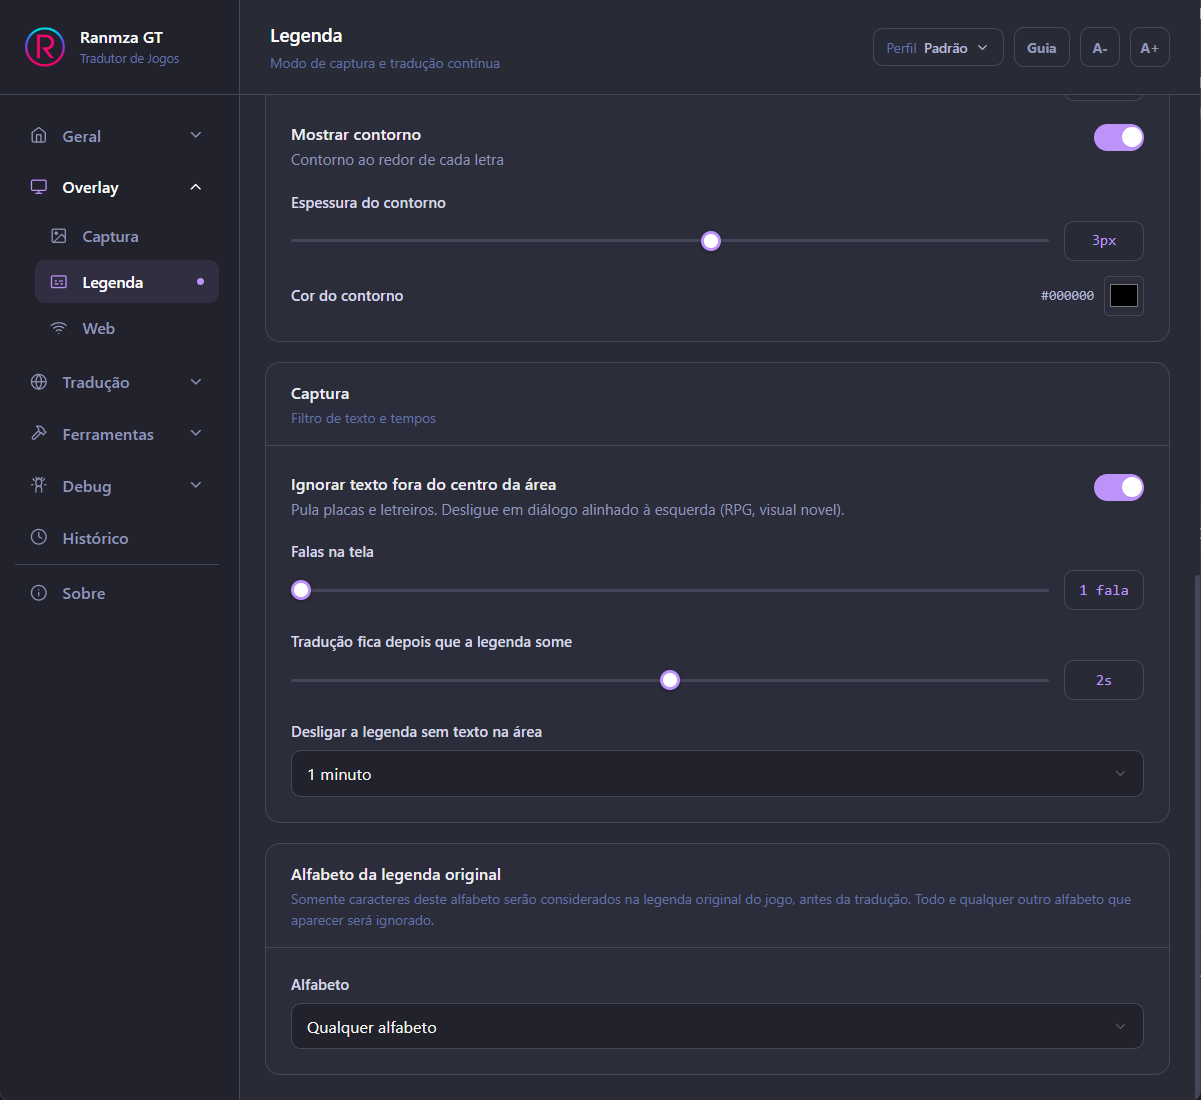
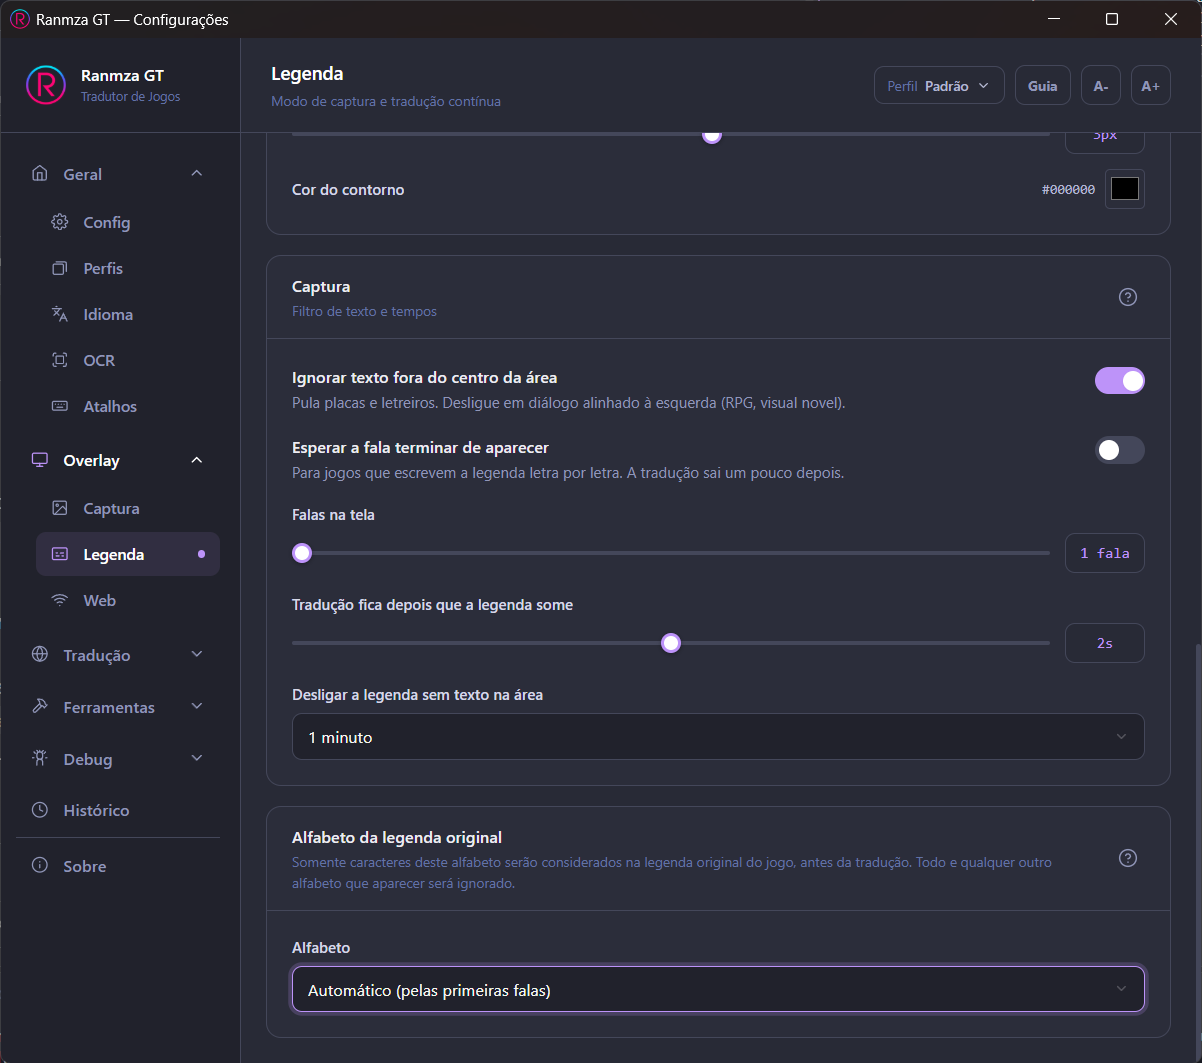
docs(manual): alfabeto Automático e espera da fala letra por letra
- Overlay › Legenda: seção Esperar a fala terminar de aparecer, para jogos com efeito typewriter
- alfabeto da legenda: Automático (pelas primeiras falas) é o padrão do OneOCR
- print novo do card Captura em português; o em inglês continua o antigo

diff --git a/_src/manual_en.md b/_src/manual_en.md
@@ -416,10 +416,12 @@ Since it uses an unofficial Microsoft API, a Snipping Tool update can break the 
 
 In Subtitle Mode, the program can consider only the letters of one alphabet and ignore the rest: Latin, Japanese/Chinese, Korean or Cyrillic. Useful when names, signs or symbols in another alphabet show up near the subtitle. It is in **Overlay › Subtitles**, in the **Original subtitle alphabet** card:
 
-- With **OneOCR**, you choose the alphabet in the list (default: *Any alphabet*).
+- With **OneOCR**, the default is *Automatic (from the first lines)*: the program finds out the subtitle's alphabet from the first translated lines and then ignores the others. If you prefer, choose the alphabet in the list.
 - With **WinOCR**, the filter follows the language chosen in **General › Language** by itself.
 
-Example: in the scene below, the English subtitle sits on top of a Japanese news headline. With *Any alphabet*, the program reads both together and sends the Japanese to the translation in the middle of the line. With *Latin*, it ignores the Japanese characters and translates only the subtitle.
+Example: in the scene below, the English subtitle sits on top of a Japanese news headline. Without the filter, the program reads both together and sends the Japanese to the translation in the middle of the line. With *Latin*, or with *Automatic* after the first lines in English, it ignores the Japanese characters and translates only the subtitle.
+
+With *Automatic*, if you switch to a game with subtitles in another alphabet, turn the subtitles off and on (`Numpad0`) so the program learns again. If you forget, it notices by itself after a few ignored lines.
 
 <p align="center"><img src="media/legenda-alfabeto-exemplo.png" alt="English subtitle on top of a Japanese headline" width="820"></p>
 
@@ -540,6 +542,16 @@ The **Ignore text away from the center of the area** option, in the **Capture** 
 
 - The tighter the area is around the subtitle, the better it works. Mark only the strip where the subtitle appears.
 - In games with left-aligned dialogue, like some RPGs and visual novels, keep this option off.
+
+### Wait for the line to finish appearing
+
+Some games type the subtitle letter by letter, like a typewriter. Without help, the program translates pieces of the line while it is still being typed, and sometimes the end is left out.
+
+Turn on **Wait for the line to finish appearing**, in the **Capture** card, in those games. The program waits for the line to stop growing and translates the whole line once.
+
+- The translation shows up a little later, on every line: about 0.2 s more. If the line does not end in a period, exclamation or question mark, the wait is almost 1 s, because it may continue.
+- It comes off. Keep it off in games where the subtitle appears all at once.
+- The option is saved in the profile, so you can turn it on only in the profile of the game that needs it.
 
 ### Stick to the detected text
 
@@ -830,10 +842,11 @@ Subtitle Mode has its **own** appearance, independent from Overlay › Capture.
 
 - **Capture**
   - *Ignore text away from the center of the area* — on by default. Skips signs near the edges of the area; turn it off for left-aligned dialogue.
+  - *Wait for the line to finish appearing* — off by default. For games that type the subtitle letter by letter; the translation shows up about 0.2 s later on every line.
   - *Lines on screen* — how many lines stay visible (1 to 8). It stays at 1 with *Stick to the detected text* on.
   - *Translation stays after the subtitle goes away* — 1 to 3 s (default 2 s).
   - *Turn off subtitles with no text in the area* — **turns the mode off** after that long with no text: Never / 1 / 2 / 5 / 10 minutes (default 1 minute).
-- **Original subtitle alphabet** — only characters of that alphabet are considered in the subtitle; the rest is ignored. With OneOCR, choose *Any alphabet*, Latin, Japanese/Chinese, Korean or Cyrillic. With WinOCR, it follows the language in General › Language, with the **Change language** button.
+- **Original subtitle alphabet** — only characters of that alphabet are considered in the subtitle; the rest is ignored. With OneOCR, choose *Automatic (from the first lines)* (default), Latin, Japanese/Chinese, Korean or Cyrillic. With WinOCR, it follows the language in General › Language, with the **Change language** button.
 
 ### Overlay › Web
 

diff --git a/_src/manual.md b/_src/manual.md
@@ -599,12 +599,19 @@ latino, japonês/chinês, coreano ou cirílico. Útil quando aparecem nomes, pla
 outro alfabeto perto da legenda. Fica em **Overlay › Legenda**, no card **Alfabeto da legenda
 original**:
 
-- Com o **OneOCR**, você escolhe o alfabeto na lista (padrão: *Qualquer alfabeto*).
+- Com o **OneOCR**, o padrão é *Automático (pelas primeiras falas)*: o programa descobre o
+  alfabeto da legenda pelas primeiras falas traduzidas e passa a ignorar os outros. Se preferir,
+  escolha o alfabeto na lista.
 - Com o **WinOCR**, o filtro segue sozinho o idioma escolhido em **Geral › Idioma**.
 
 Exemplo: na cena abaixo, a legenda em inglês fica por cima de uma manchete de jornal em japonês.
-Com *Qualquer alfabeto*, o programa lê as duas juntas e manda o japonês para a tradução no meio da
-fala. Com *Latino*, ele ignora os caracteres japoneses e traduz só a legenda.
+Sem o filtro, o programa lê as duas juntas e manda o japonês para a tradução no meio da fala. Com
+*Latino*, ou com *Automático* depois das primeiras falas em inglês, ele ignora os caracteres
+japoneses e traduz só a legenda.
+
+No *Automático*, se você trocar de jogo para um com legenda em outro alfabeto, desligue e ligue a
+legenda (`Numpad0`) para o programa aprender de novo. Se esquecer, ele percebe sozinho depois de
+algumas falas ignoradas.
 
 <p align="center"><img src="media/legenda-alfabeto-exemplo.png" alt="Legenda em inglês por cima de uma manchete em japonês" width="820"></p>
 
@@ -781,6 +788,20 @@ aparecem ao lado da legenda.
   a legenda aparece.
 - Em jogos com diálogo alinhado à esquerda, como alguns RPGs e visual novels, deixe essa opção
   desligada.
+
+### Esperar a fala terminar de aparecer
+
+Alguns jogos escrevem a legenda letra por letra, como uma máquina de escrever. Sem ajuda, o
+programa traduz pedaços da fala enquanto ela ainda está sendo escrita, e às vezes o final fica de
+fora.
+
+Ligue **Esperar a fala terminar de aparecer**, no card **Captura**, nesses jogos. O programa espera
+a fala parar de crescer e traduz a fala inteira uma vez só.
+
+- A tradução sai um pouco depois, em toda fala: cerca de 0,2 s a mais. Se a fala não termina em
+  ponto, exclamação ou interrogação, a espera é de quase 1 s, porque ela pode continuar.
+- Vem desligada. Deixe desligada nos jogos em que a legenda aparece inteira de uma vez.
+- A opção fica salva no perfil, então dá para ligar só no perfil do jogo que precisa.
 
 ### Colar no texto detectado
 
@@ -1254,14 +1275,16 @@ O Modo Legenda tem aparência **própria**, independente de Overlay › Captura.
 - **Captura**
   - *Ignorar texto fora do centro da área* — ligada por padrão. Pula placas e letreiros perto das
     bordas da área; desligue em diálogo alinhado à esquerda.
+  - *Esperar a fala terminar de aparecer* — desligada por padrão. Para jogos que escrevem a
+    legenda letra por letra; a tradução sai cerca de 0,2 s depois em toda fala.
   - *Falas na tela* — quantas falas ficam visíveis (1 a 8). Fica em 1 com *Colar no texto
     detectado* ligado.
   - *Tradução fica depois que a legenda some* — 1 a 3 s (padrão 2 s).
   - *Desligar a legenda sem texto na área* — **desliga o modo** depois desse tempo sem texto:
     Nunca / 1 / 2 / 5 / 10 minutos (padrão 1 minuto).
 - **Alfabeto da legenda original** — só caracteres desse alfabeto são considerados na legenda;
-  o resto é ignorado. Com o OneOCR, escolha *Qualquer alfabeto*, latino, japonês/chinês, coreano
-  ou cirílico. Com o WinOCR, segue o idioma de Geral › Idioma, com o botão **Mudar idioma**.
+  o resto é ignorado. Com o OneOCR, escolha *Automático (pelas primeiras falas)* (padrão), latino,
+  japonês/chinês, coreano ou cirílico. Com o WinOCR, segue o idioma de Geral › Idioma, com o botão **Mudar idioma**.
 
 ### Overlay › Web
 

diff --git a/en/Manual/configuring-translation.md b/en/Manual/configuring-translation.md
@@ -53,10 +53,12 @@ Since it uses an unofficial Microsoft API, a Snipping Tool update can break the 
 
 In Subtitle Mode, the program can consider only the letters of one alphabet and ignore the rest: Latin, Japanese/Chinese, Korean or Cyrillic. Useful when names, signs or symbols in another alphabet show up near the subtitle. It is in **Overlay › Subtitles**, in the **Original subtitle alphabet** card:
 
-- With **OneOCR**, you choose the alphabet in the list (default: *Any alphabet*).
+- With **OneOCR**, the default is *Automatic (from the first lines)*: the program finds out the subtitle's alphabet from the first translated lines and then ignores the others. If you prefer, choose the alphabet in the list.
 - With **WinOCR**, the filter follows the language chosen in **General › Language** by itself.
 
-Example: in the scene below, the English subtitle sits on top of a Japanese news headline. With *Any alphabet*, the program reads both together and sends the Japanese to the translation in the middle of the line. With *Latin*, it ignores the Japanese characters and translates only the subtitle.
+Example: in the scene below, the English subtitle sits on top of a Japanese news headline. Without the filter, the program reads both together and sends the Japanese to the translation in the middle of the line. With *Latin*, or with *Automatic* after the first lines in English, it ignores the Japanese characters and translates only the subtitle.
+
+With *Automatic*, if you switch to a game with subtitles in another alphabet, turn the subtitles off and on (`Numpad0`) so the program learns again. If you forget, it notices by itself after a few ignored lines.
 
 <p align="center"><img src="media/legenda-alfabeto-exemplo.png" alt="English subtitle on top of a Japanese headline" width="820"></p>
 

diff --git a/Manual/configurando-a-traducao.md b/Manual/configurando-a-traducao.md
@@ -84,12 +84,19 @@ latino, japonês/chinês, coreano ou cirílico. Útil quando aparecem nomes, pla
 outro alfabeto perto da legenda. Fica em **Overlay › Legenda**, no card **Alfabeto da legenda
 original**:
 
-- Com o **OneOCR**, você escolhe o alfabeto na lista (padrão: *Qualquer alfabeto*).
+- Com o **OneOCR**, o padrão é *Automático (pelas primeiras falas)*: o programa descobre o
+  alfabeto da legenda pelas primeiras falas traduzidas e passa a ignorar os outros. Se preferir,
+  escolha o alfabeto na lista.
 - Com o **WinOCR**, o filtro segue sozinho o idioma escolhido em **Geral › Idioma**.
 
 Exemplo: na cena abaixo, a legenda em inglês fica por cima de uma manchete de jornal em japonês.
-Com *Qualquer alfabeto*, o programa lê as duas juntas e manda o japonês para a tradução no meio da
-fala. Com *Latino*, ele ignora os caracteres japoneses e traduz só a legenda.
+Sem o filtro, o programa lê as duas juntas e manda o japonês para a tradução no meio da fala. Com
+*Latino*, ou com *Automático* depois das primeiras falas em inglês, ele ignora os caracteres
+japoneses e traduz só a legenda.
+
+No *Automático*, se você trocar de jogo para um com legenda em outro alfabeto, desligue e ligue a
+legenda (`Numpad0`) para o programa aprender de novo. Se esquecer, ele percebe sozinho depois de
+algumas falas ignoradas.
 
 <p align="center"><img src="media/legenda-alfabeto-exemplo.png" alt="Legenda em inglês por cima de uma manchete em japonês" width="820"></p>
 

diff --git a/en/Manual/subtitle-mode-continuous-automatic-translation.md b/en/Manual/subtitle-mode-continuous-automatic-translation.md
@@ -33,6 +33,16 @@ The **Ignore text away from the center of the area** option, in the **Capture** 
 - The tighter the area is around the subtitle, the better it works. Mark only the strip where the subtitle appears.
 - In games with left-aligned dialogue, like some RPGs and visual novels, keep this option off.
 
+## Wait for the line to finish appearing
+
+Some games type the subtitle letter by letter, like a typewriter. Without help, the program translates pieces of the line while it is still being typed, and sometimes the end is left out.
+
+Turn on **Wait for the line to finish appearing**, in the **Capture** card, in those games. The program waits for the line to stop growing and translates the whole line once.
+
+- The translation shows up a little later, on every line: about 0.2 s more. If the line does not end in a period, exclamation or question mark, the wait is almost 1 s, because it may continue.
+- It comes off. Keep it off in games where the subtitle appears all at once.
+- The option is saved in the profile, so you can turn it on only in the profile of the game that needs it.
+
 ## Stick to the detected text
 
 In **Overlay › Subtitles**, the first card (*Translation position*) has the **Stick to the detected text** option. When on, the translation no longer shows above the area and is drawn **on top of the original line**, with the same line breaks, covering the game subtitle — as if the game were subtitled in your language.

diff --git a/en/Manual/complete-reference-all-tabs.md b/en/Manual/complete-reference-all-tabs.md
@@ -136,10 +136,11 @@ Subtitle Mode has its **own** appearance, independent from Overlay › Capture.
 
 - **Capture**
   - *Ignore text away from the center of the area* — on by default. Skips signs near the edges of the area; turn it off for left-aligned dialogue.
+  - *Wait for the line to finish appearing* — off by default. For games that type the subtitle letter by letter; the translation shows up about 0.2 s later on every line.
   - *Lines on screen* — how many lines stay visible (1 to 8). It stays at 1 with *Stick to the detected text* on.
   - *Translation stays after the subtitle goes away* — 1 to 3 s (default 2 s).
   - *Turn off subtitles with no text in the area* — **turns the mode off** after that long with no text: Never / 1 / 2 / 5 / 10 minutes (default 1 minute).
-- **Original subtitle alphabet** — only characters of that alphabet are considered in the subtitle; the rest is ignored. With OneOCR, choose *Any alphabet*, Latin, Japanese/Chinese, Korean or Cyrillic. With WinOCR, it follows the language in General › Language, with the **Change language** button.
+- **Original subtitle alphabet** — only characters of that alphabet are considered in the subtitle; the rest is ignored. With OneOCR, choose *Automatic (from the first lines)* (default), Latin, Japanese/Chinese, Korean or Cyrillic. With WinOCR, it follows the language in General › Language, with the **Change language** button.
 
 ## Overlay › Web
 

diff --git a/Manual/referencia-completa-todas-as-abas.md b/Manual/referencia-completa-todas-as-abas.md
@@ -205,14 +205,16 @@ O Modo Legenda tem aparência **própria**, independente de Overlay › Captura.
 - **Captura**
   - *Ignorar texto fora do centro da área* — ligada por padrão. Pula placas e letreiros perto das
     bordas da área; desligue em diálogo alinhado à esquerda.
+  - *Esperar a fala terminar de aparecer* — desligada por padrão. Para jogos que escrevem a
+    legenda letra por letra; a tradução sai cerca de 0,2 s depois em toda fala.
   - *Falas na tela* — quantas falas ficam visíveis (1 a 8). Fica em 1 com *Colar no texto
     detectado* ligado.
   - *Tradução fica depois que a legenda some* — 1 a 3 s (padrão 2 s).
   - *Desligar a legenda sem texto na área* — **desliga o modo** depois desse tempo sem texto:
     Nunca / 1 / 2 / 5 / 10 minutos (padrão 1 minuto).
 - **Alfabeto da legenda original** — só caracteres desse alfabeto são considerados na legenda;
-  o resto é ignorado. Com o OneOCR, escolha *Qualquer alfabeto*, latino, japonês/chinês, coreano
-  ou cirílico. Com o WinOCR, segue o idioma de Geral › Idioma, com o botão **Mudar idioma**.
+  o resto é ignorado. Com o OneOCR, escolha *Automático (pelas primeiras falas)* (padrão), latino,
+  japonês/chinês, coreano ou cirílico. Com o WinOCR, segue o idioma de Geral › Idioma, com o botão **Mudar idioma**.
 
 ## Overlay › Web
 

diff --git a/Manual/modo-legenda-traducao-automatica-continua.md b/Manual/modo-legenda-traducao-automatica-continua.md
@@ -46,6 +46,20 @@ aparecem ao lado da legenda.
 - Em jogos com diálogo alinhado à esquerda, como alguns RPGs e visual novels, deixe essa opção
   desligada.
 
+## Esperar a fala terminar de aparecer
+
+Alguns jogos escrevem a legenda letra por letra, como uma máquina de escrever. Sem ajuda, o
+programa traduz pedaços da fala enquanto ela ainda está sendo escrita, e às vezes o final fica de
+fora.
+
+Ligue **Esperar a fala terminar de aparecer**, no card **Captura**, nesses jogos. O programa espera
+a fala parar de crescer e traduz a fala inteira uma vez só.
+
+- A tradução sai um pouco depois, em toda fala: cerca de 0,2 s a mais. Se a fala não termina em
+  ponto, exclamação ou interrogação, a espera é de quase 1 s, porque ela pode continuar.
+- Vem desligada. Deixe desligada nos jogos em que a legenda aparece inteira de uma vez.
+- A opção fica salva no perfil, então dá para ligar só no perfil do jogo que precisa.
+
 ## Colar no texto detectado
 
 Em **Overlay › Legenda**, o primeiro card (*Posição da tradução*) tem a opção **Colar no texto
